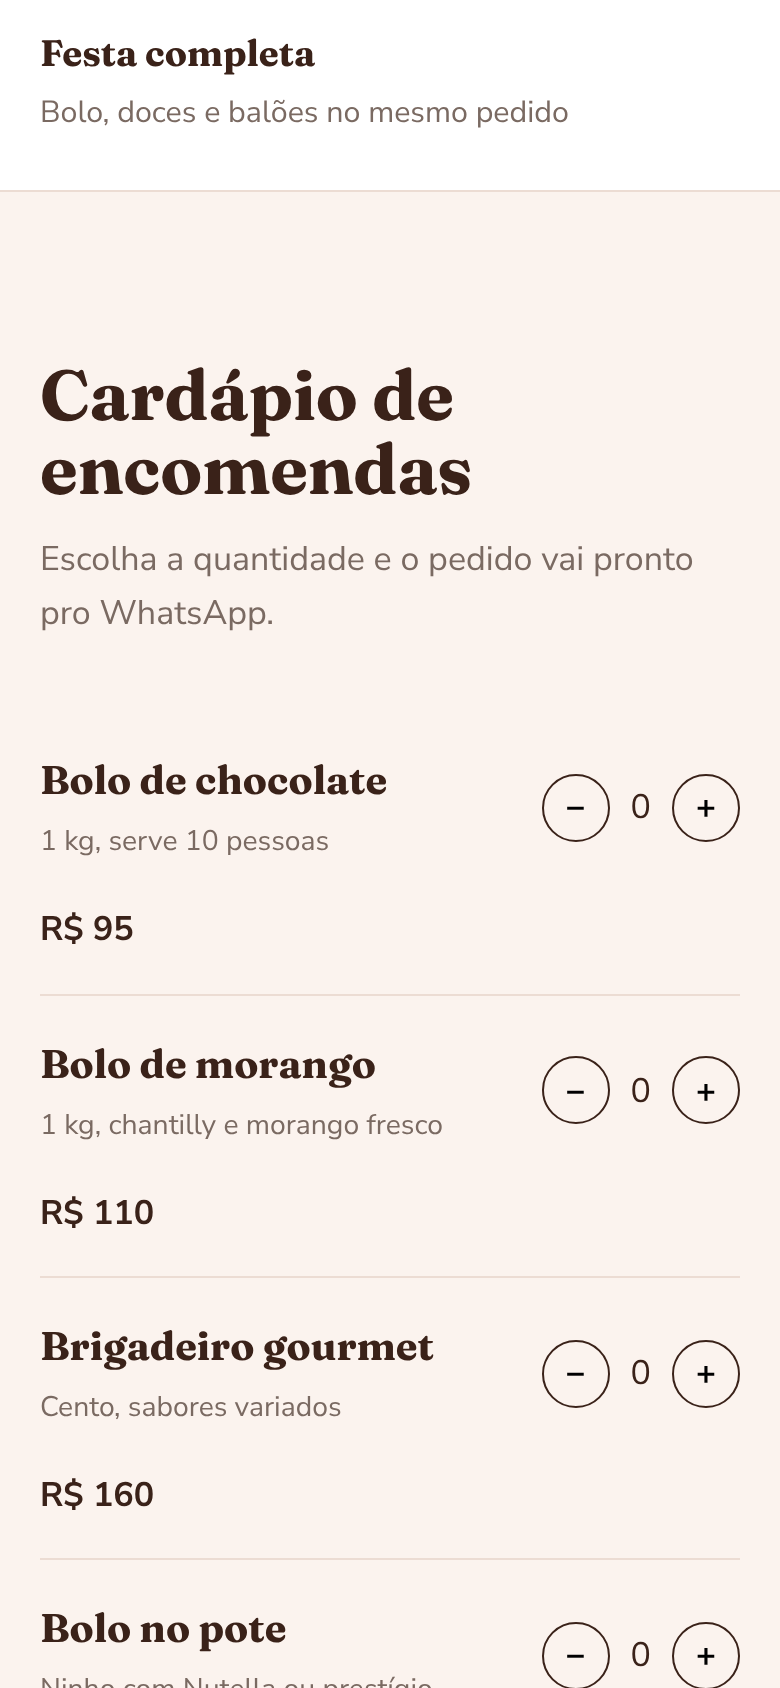
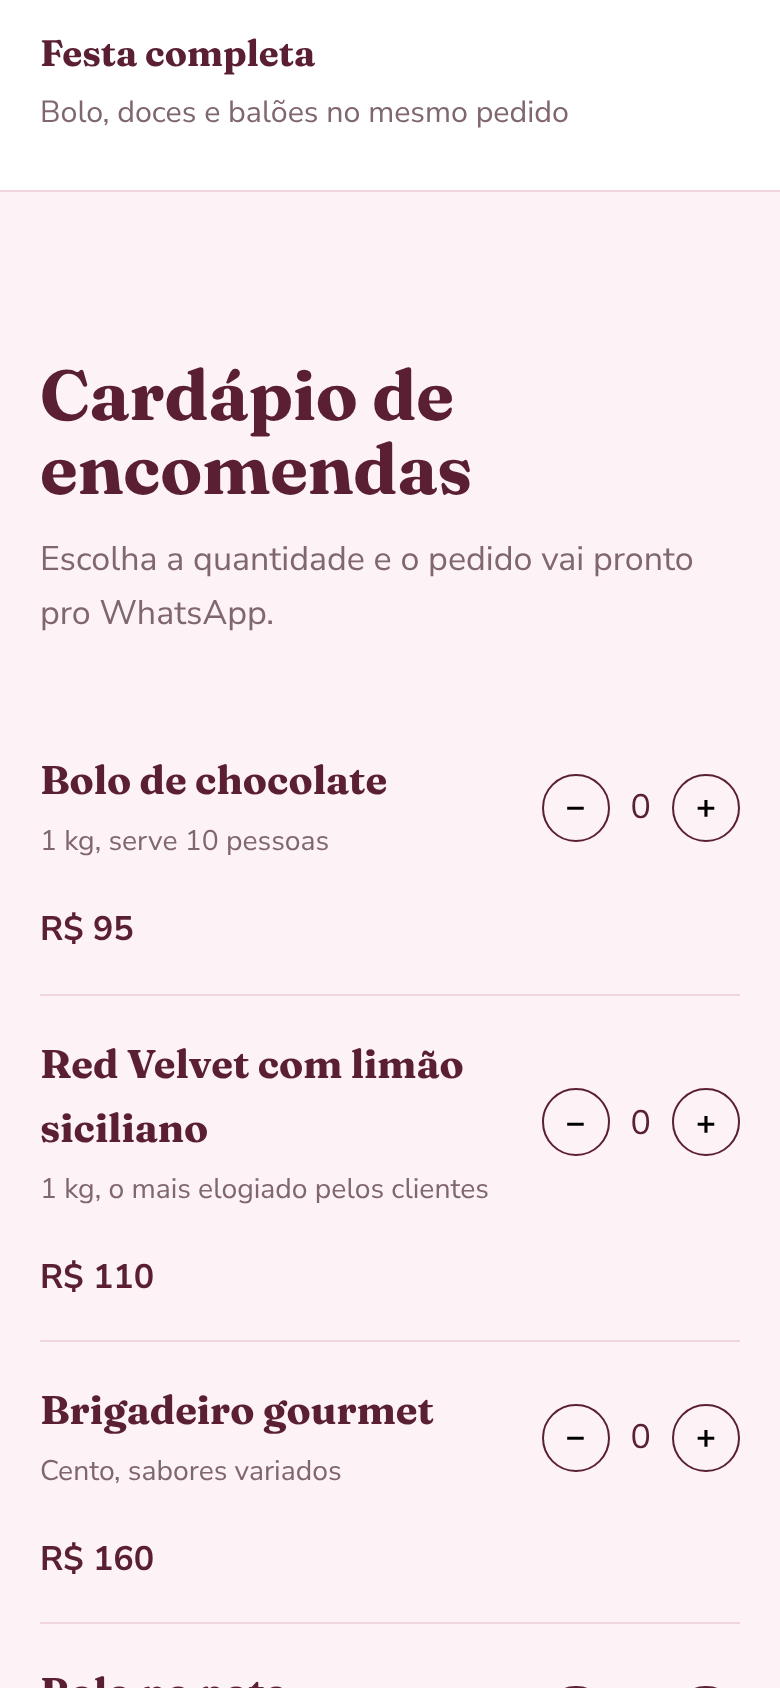
Prévia da Mary Cakes com a identidade e os dados reais do Google
Claude-Session: https://claude.ai/code/session_01VVFaYFBazfBerGM9xmHanA

diff --git a/previas/mary-cakes.html b/previas/mary-cakes.html
@@ -4,20 +4,20 @@
 <meta charset="utf-8">
 <meta name="viewport" content="width=device-width, initial-scale=1, viewport-fit=cover">
 <title>Mary Cakes</title>
-<link rel="stylesheet" href="https://fonts.googleapis.com/css2?family=Fraunces:opsz,wght@9..144,500;9..144,700&family=Nunito+Sans:wght@400;600;700&display=swap">
+<link rel="stylesheet" href="https://fonts.googleapis.com/css2?family=Fraunces:opsz,wght@9..144,500;9..144,700&family=Dancing+Script:wght@700&family=Nunito+Sans:wght@400;600;700&display=swap">
 <style>
 /* Chocolate, morango e glacê. Destaque: cardápio de encomenda com quantidade e total, que vira mensagem no WhatsApp. */
-:root{--glace:#fbf3ee;--morango:#d94f5c;--chocolate:#3a2219;--caramelo:#c98b4e;--cinza:#7a6a62;--linha:#ecdcd3;
+:root{--glace:#fdf2f5;--morango:#c2386b;--chocolate:#5a1f33;--caramelo:#e6a1b8;--cinza:#7f6670;--linha:#f1d5de;
   --d:"Fraunces",Georgia,serif;--t:"Nunito Sans",system-ui,sans-serif}
 *{box-sizing:border-box}body{margin:0;background:var(--glace);color:var(--chocolate);font-family:var(--t);font-size:17px;line-height:1.6}
 a{color:inherit}img{max-width:100%;display:block}
 .in{max-width:1140px;margin:0 auto;padding-left:max(20px,env(safe-area-inset-left,0px));padding-right:max(20px,env(safe-area-inset-right,0px))}
 .topo .in{display:flex;justify-content:space-between;align-items:center;height:76px}
-.marca{font-family:var(--d);font-weight:700;font-size:1.6rem;text-decoration:none}
+.marca{font-family:"Dancing Script",cursive;font-weight:700;font-size:2rem;text-decoration:none;color:var(--morango)}
 .menu{display:flex;gap:26px;font-weight:600}.menu a{text-decoration:none}
 .btn{display:inline-block;background:var(--morango);color:#fff;text-decoration:none;font-weight:700;padding:14px 26px;border-radius:999px;border:0;font:inherit;font-weight:700;cursor:pointer}
 .hero{position:relative;background:#3a2219 url("https://images.unsplash.com/photo-1578985545062-69928b1d9587?w=1800&q=70") 70% 40%/cover}
-.hero::before{content:"";position:absolute;inset:0;background:linear-gradient(90deg,rgba(251,243,238,.97) 0%,rgba(251,243,238,.85) 42%,rgba(251,243,238,0) 75%)}
+.hero::before{content:"";position:absolute;inset:0;background:linear-gradient(90deg,rgba(253,242,245,.97) 0%,rgba(253,242,245,.85) 42%,rgba(253,242,245,0) 75%)}
 .hero .in{position:relative;min-height:600px;display:grid;align-items:center;padding-block:30px 80px}
 .hero .in>div{max-width:540px}
 .hero h1{font-family:var(--d);font-weight:700;font-size:clamp(2.8rem,6vw,4.8rem);line-height:1.02;margin:0 0 20px}
@@ -43,7 +43,7 @@ h2{font-family:var(--d);font-weight:700;font-size:clamp(2.2rem,4.6vw,3.2rem);lin
 .historia img{width:100%;aspect-ratio:4/3;object-fit:cover;border-radius:24px}
 footer .in{display:flex;justify-content:space-between;flex-wrap:wrap;gap:16px;padding-block:36px;color:var(--cinza);font-size:.95rem}
 :focus-visible{outline:2px solid var(--morango);outline-offset:3px}
-@media (max-width:860px){.menu{display:none}.hero .in,.historia .in{grid-template-columns:1fr}.hero::before{background:linear-gradient(180deg,rgba(251,243,238,.97) 0%,rgba(251,243,238,.9) 55%,rgba(251,243,238,.35) 100%)}.hero{background-position:60% 80%}.vant .in{grid-template-columns:1fr}}
+@media (max-width:860px){.menu{display:none}.hero .in,.historia .in{grid-template-columns:1fr}.hero::before{background:linear-gradient(180deg,rgba(253,242,245,.97) 0%,rgba(253,242,245,.92) 70%,rgba(253,242,245,.78) 100%)}.hero{background-position:60% 80%}.vant .in{grid-template-columns:1fr}}
 @media (max-width:520px){.item{grid-template-columns:1fr auto}.item .preco{grid-column:1;grid-row:2}}
 </style>
 </head>
@@ -53,14 +53,15 @@ footer .in{display:flex;justify-content:space-between;flex-wrap:wrap;gap:16px;pa
 <section class="hero" style="padding:0"><div class="in">
   <div>
     <h1>Bolos, doces e balões pra sua festa</h1>
-    <p>Confeitaria na Granja Viana. Monte sua encomenda aqui e mande pelo WhatsApp. A gente cuida do bolo, dos doces e da decoração com balões.</p>
+    <p>Confeitaria na Granja Viana, com entrega. Bolos bem recheados e molhadinhos, doces e balões pra sua festa. Monte a encomenda aqui e mande pelo WhatsApp.</p>
     <a class="btn" href="#cardapio">Montar encomenda</a>
+    <p style="margin:24px 0 0;font-size:.98rem"><b>Nota 5,0 no Google, com 40 avaliações.</b><br>"Super indico o Red Velvet com recheio de limão siciliano, simplesmente divino!"</p>
   </div>
 </div></section>
 
 <div class="vant"><div class="in">
-  <div><b>Feito na véspera</b><span>Nada fica na geladeira de um dia pro outro</span></div>
-  <div><b>Entrega na região</b><span>Granja Viana e Cotia</span></div>
+  <div><b>Bolos temáticos</b><span>Do tema que você escolher, até carro da Route 66</span></div>
+  <div><b>Entrega</b><span>Na Granja Viana e região</span></div>
   <div><b>Festa completa</b><span>Bolo, doces e balões no mesmo pedido</span></div>
 </div></div>
 
@@ -69,7 +70,7 @@ footer .in{display:flex;justify-content:space-between;flex-wrap:wrap;gap:16px;pa
   <p class="sub">Escolha a quantidade e o pedido vai pronto pro WhatsApp.</p>
   <div class="itens" id="itens">
     <div class="item" data-n="Bolo de chocolate (1 kg)" data-p="95"><div><b>Bolo de chocolate</b><small>1 kg, serve 10 pessoas</small></div><span class="preco">R$ 95</span><div class="qtd"><button type="button" aria-label="Menos">−</button><output>0</output><button type="button" aria-label="Mais">+</button></div></div>
-    <div class="item" data-n="Bolo de morango (1 kg)" data-p="110"><div><b>Bolo de morango</b><small>1 kg, chantilly e morango fresco</small></div><span class="preco">R$ 110</span><div class="qtd"><button type="button" aria-label="Menos">−</button><output>0</output><button type="button" aria-label="Mais">+</button></div></div>
+    <div class="item" data-n="Red Velvet com limão siciliano (1 kg)" data-p="110"><div><b>Red Velvet com limão siciliano</b><small>1 kg, o mais elogiado pelos clientes</small></div><span class="preco">R$ 110</span><div class="qtd"><button type="button" aria-label="Menos">−</button><output>0</output><button type="button" aria-label="Mais">+</button></div></div>
     <div class="item" data-n="Brigadeiro gourmet (cento)" data-p="160"><div><b>Brigadeiro gourmet</b><small>Cento, sabores variados</small></div><span class="preco">R$ 160</span><div class="qtd"><button type="button" aria-label="Menos">−</button><output>0</output><button type="button" aria-label="Mais">+</button></div></div>
     <div class="item" data-n="Bolo no pote" data-p="14"><div><b>Bolo no pote</b><small>Ninho com Nutella ou prestígio</small></div><span class="preco">R$ 14</span><div class="qtd"><button type="button" aria-label="Menos">−</button><output>0</output><button type="button" aria-label="Mais">+</button></div></div>
     <div class="item" data-n="Arranjo de balões" data-p="120"><div><b>Arranjo de balões</b><small>Nas cores do tema da festa</small></div><span class="preco">R$ 120</span><div class="qtd"><button type="button" aria-label="Menos">−</button><output>0</output><button type="button" aria-label="Mais">+</button></div></div>
@@ -80,12 +81,12 @@ footer .in{display:flex;justify-content:space-between;flex-wrap:wrap;gap:16px;pa
 <section class="historia" id="historia"><div class="in">
   <img src="https://images.unsplash.com/photo-1578985545062-69928b1d9587?w=900&q=70" alt="Bolo de chocolate">
   <div>
-    <h2>Feito com carinho</h2>
-    <p>Aqui entra a história da Mary Cakes: como começou, o que tem de especial e por que os clientes voltam. A gente escreve juntos.</p>
+    <h2>Feito por empreendedoras</h2>
+    <p>A Mary Cakes é uma confeitaria de mulheres empreendedoras na Granja Viana. Os clientes falam em "qualidade com toque de casa de mãe" e em capricho em cada detalhe. Aqui entra a história de vocês, que a gente escreve juntos.</p>
   </div>
 </div></section>
 
-<footer id="contato"><div class="in"><span>Mary Cakes, Granja Viana, Cotia. (11) 96507-1771</span><span>Prévia: preços e fotos de exemplo.</span></div></footer>
+<footer id="contato"><div class="in"><span>Mary Cakes, R. Peloponeso, 314, Granja Viana, Cotia. Aberto até 22h. (11) 96507-1771</span><span>Prévia: preços e fotos de exemplo.</span></div></footer>
 <script>
 const itens=[...document.querySelectorAll(".item")],tot=document.getElementById("total"),zap=document.getElementById("zap");
 function at(){let s=0,l=[];itens.forEach(i=>{const q=+i.querySelector("output").value;if(q){s+=q*i.dataset.p;l.push(`${q}x ${i.dataset.n}`)}});
